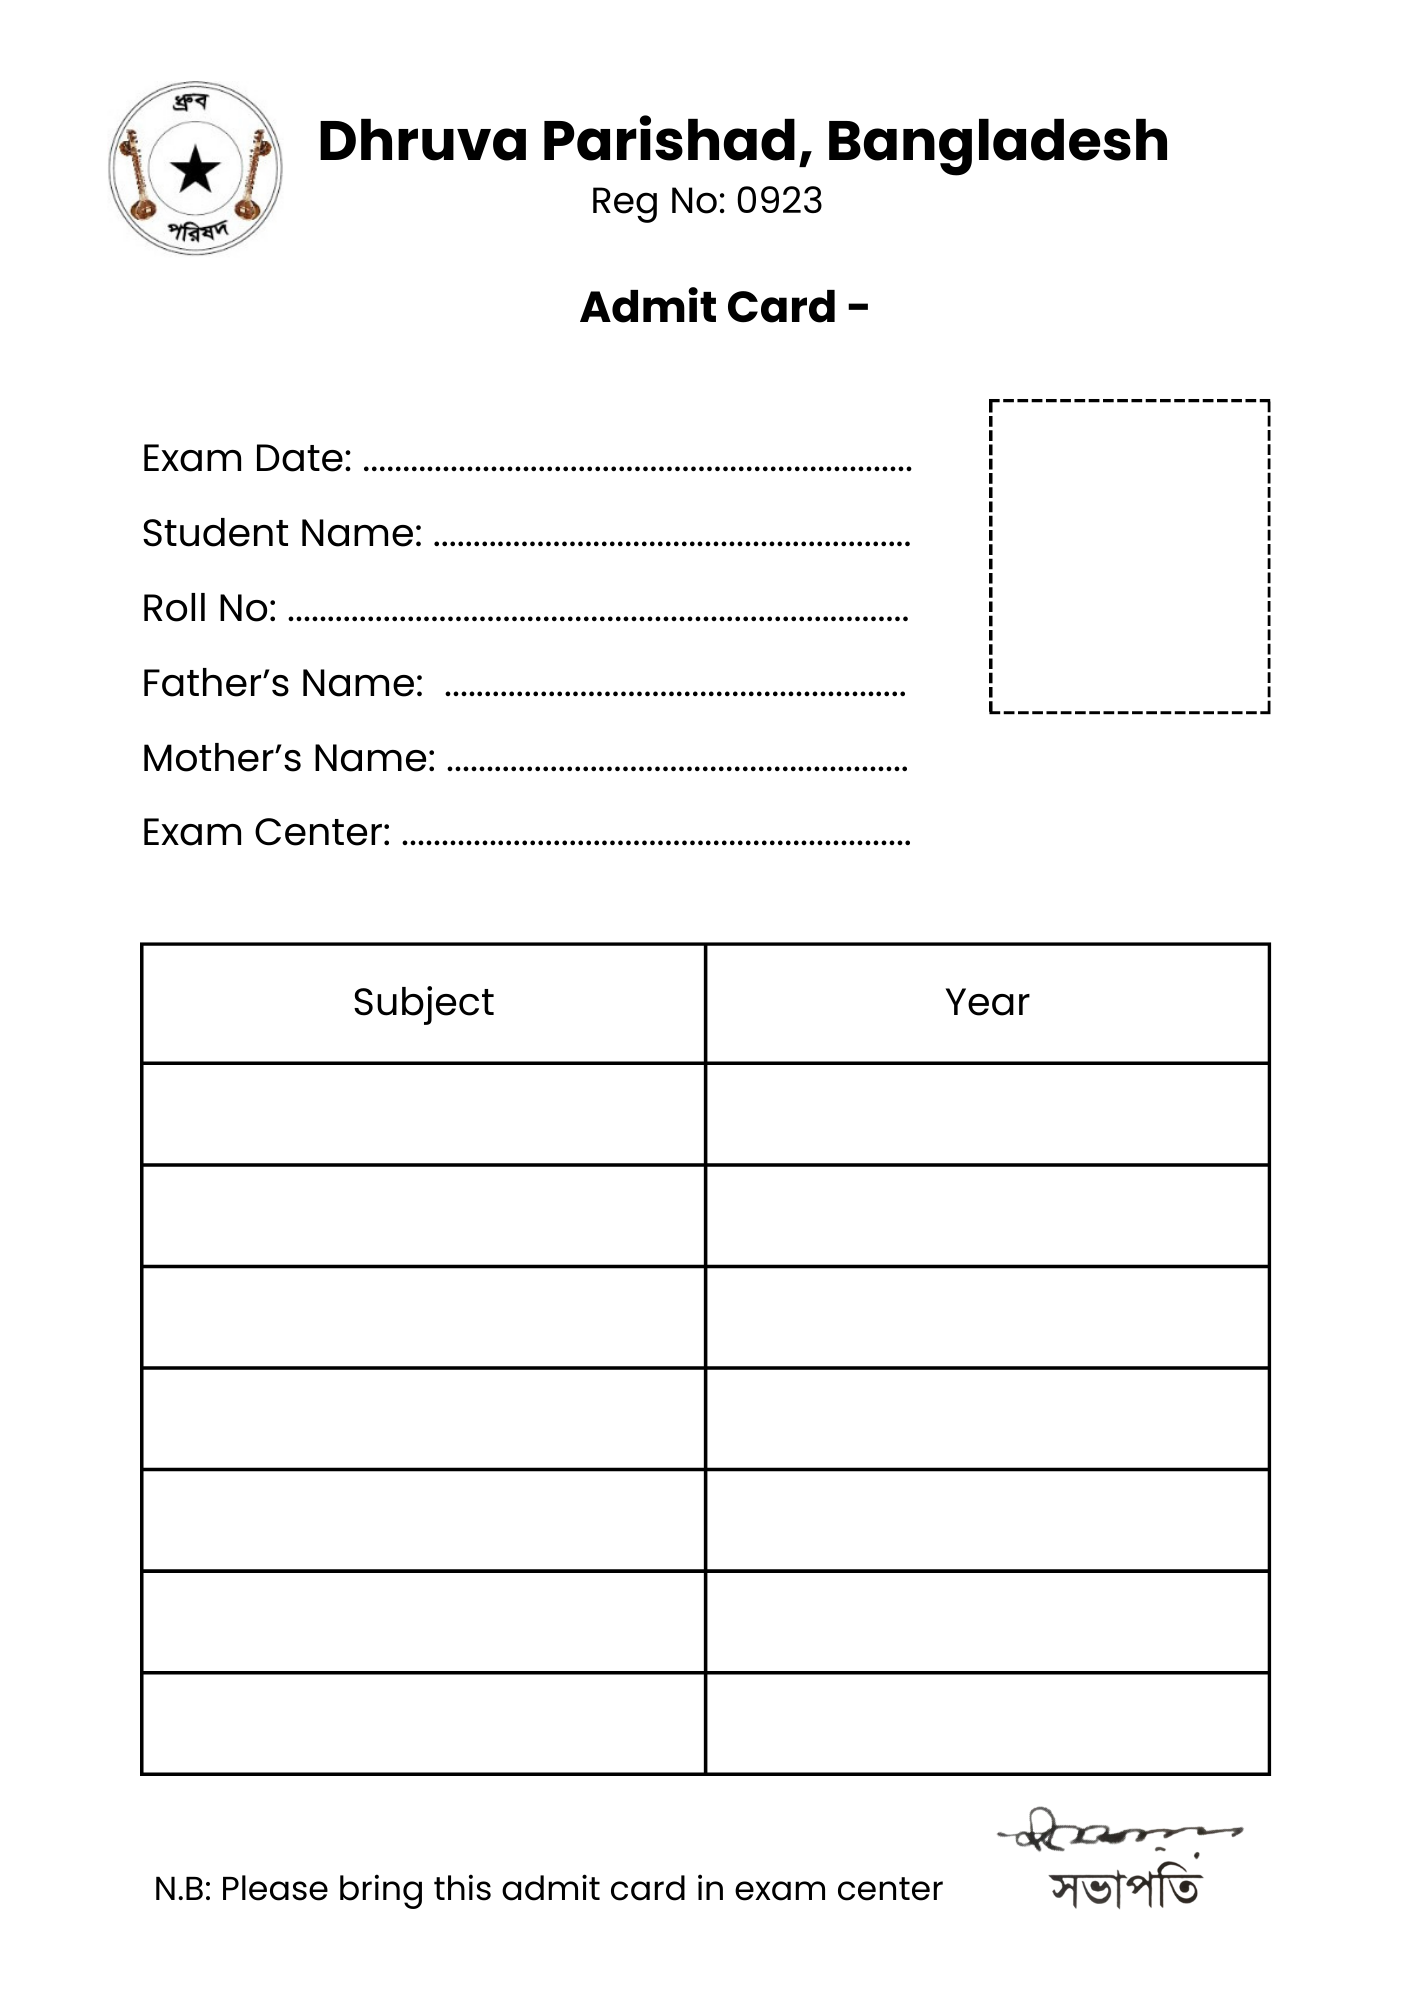
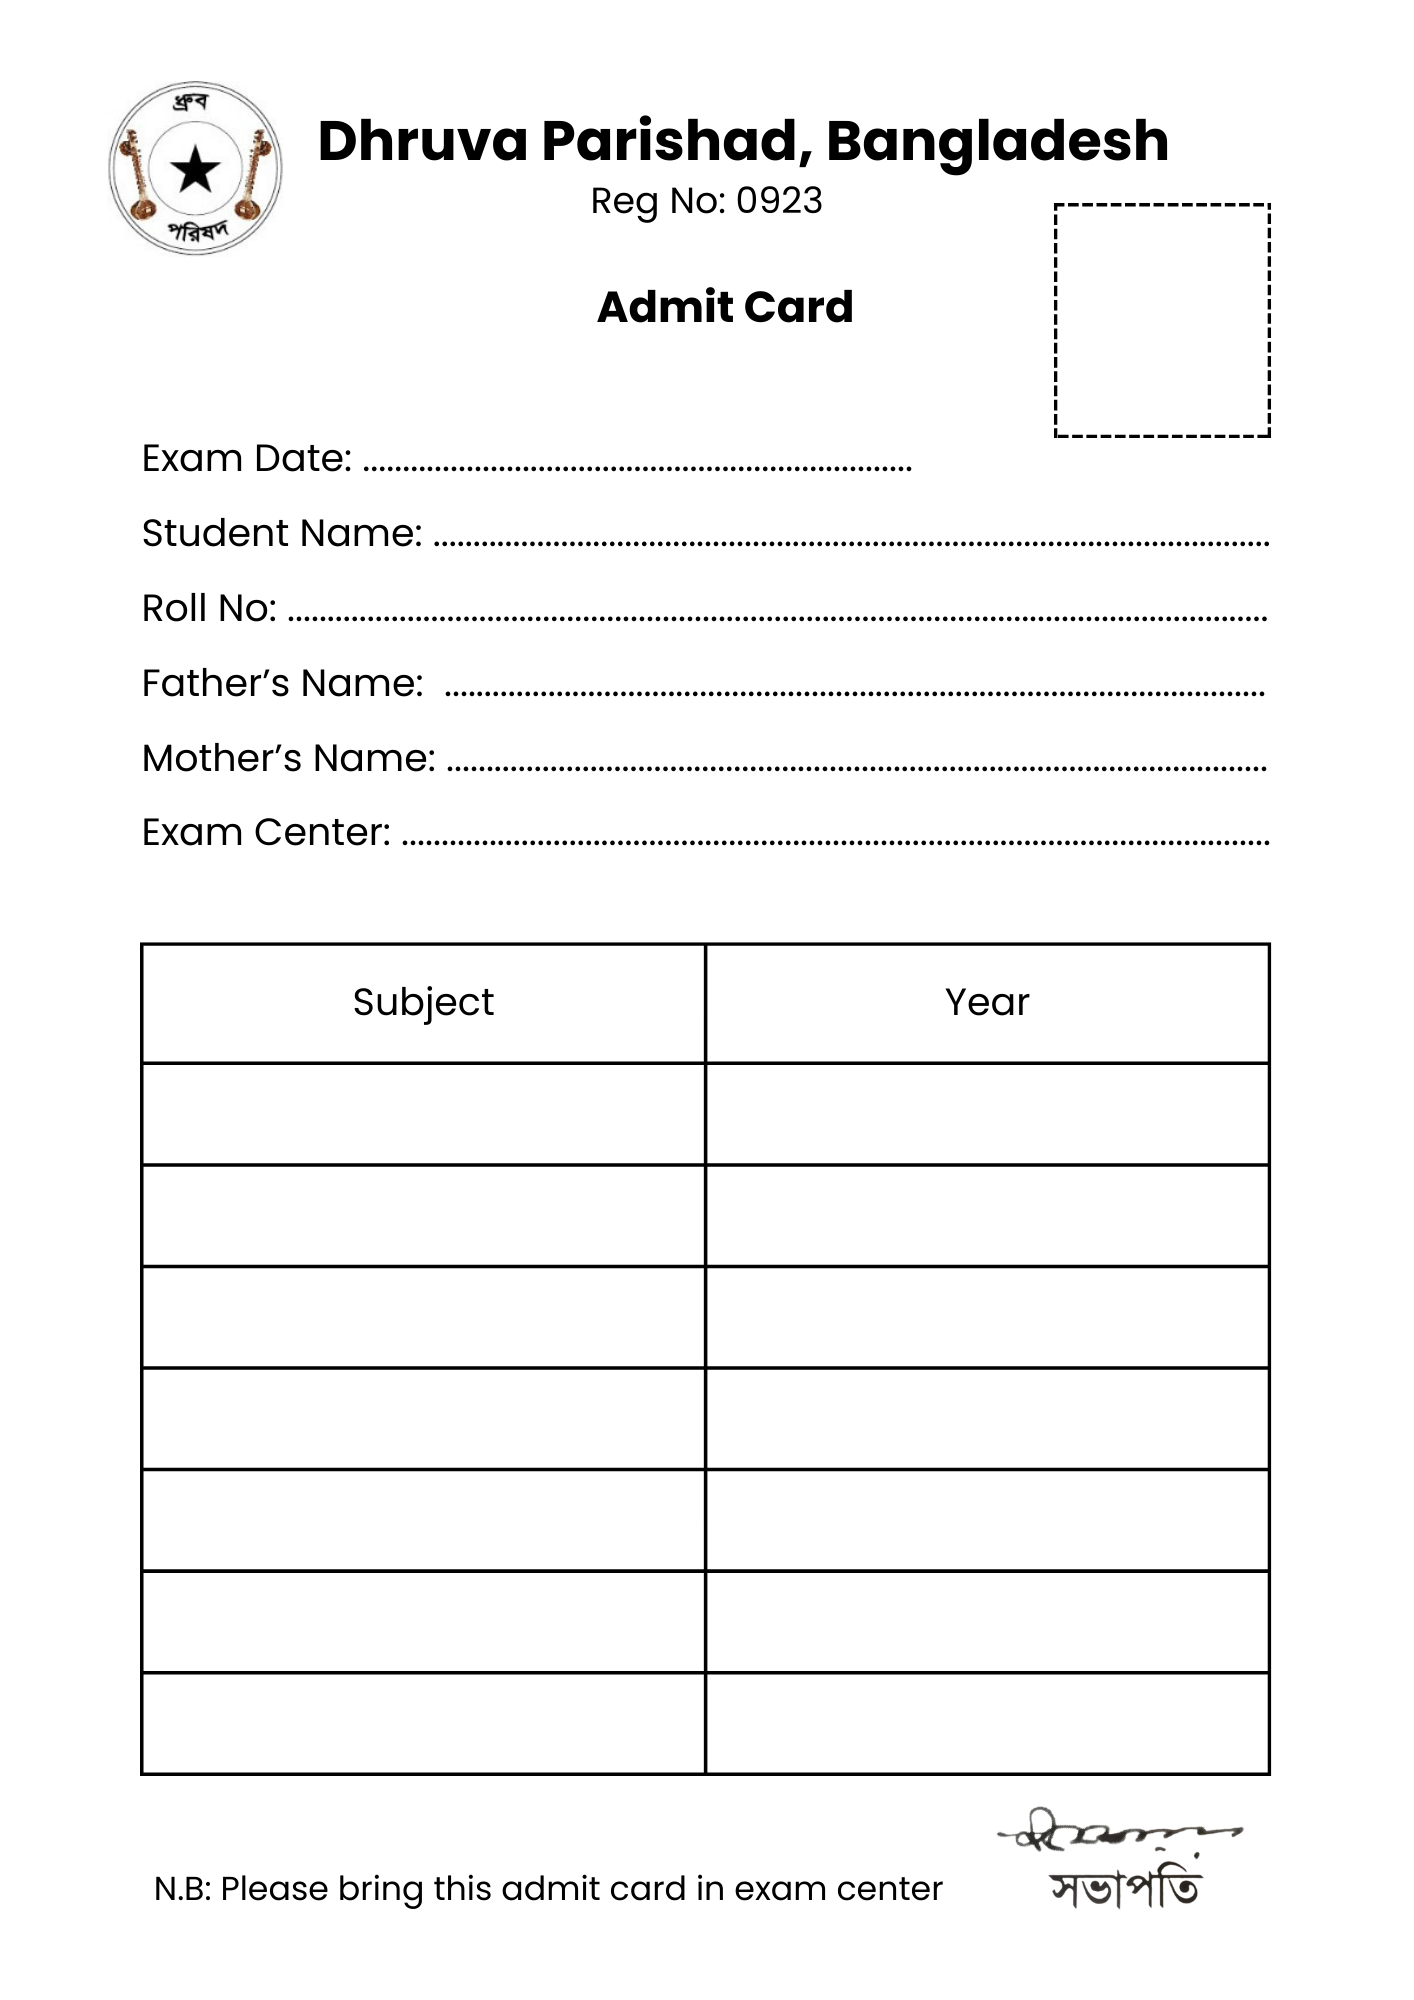
api changed

diff --git a/components/AdmitCard/AdmitCard.module.scss b/components/AdmitCard/AdmitCard.module.scss
@@ -2,13 +2,14 @@
 
 .certificate_section {
   margin-top: 40px;
-  width: 100%;
+  // width: 100%;
   // padding: 20px;
   background-color: $brown-color;
   display: flex;
   flex-direction: column;
   justify-content: center;
   align-items: center;
+  overflow-x: scroll;
 
   @media (min-width: 1024px) {
     margin-top: 60px;
@@ -29,7 +30,7 @@
 
     @media (min-width: 768px) {
       font-size: 20px;
-      margin-bottom: 40px;
+      margin-top: 50px;
     }
     @media (min-width: 1024px) {
       text-align: center;
@@ -40,9 +41,10 @@
   }
 
   .child_section {
-    // width: 100%;
+    @media (max-width: 768px) {
+      width: 100%;
+    }
     position: relative;
-
     .image_section {
       width: 600px;
       height: 800px;
@@ -56,57 +58,69 @@
       left: 0;
 
       .student_image {
-        // margin-top: 165px;
-        // margin-left: 425px;
-        // max-width: 110px;
-        // max-height: 115px;
-        top: 50;
-        // overflow: hidden;
-        background-color: red;
+        margin-top: 82px;
+        margin-left: 448px;
+        width: 90px;
+        height: 90px;
+        position: relative;
+        overflow: hidden;
+        // background-color: red;
 
-        .image_set{
-          width: 50px;
-          // object-fit: cover;
+        .image_set {
+          width: 100%;
+          object-fit: cover;
         }
       }
 
       .date_design {
         margin-left: 170px;
-        margin-top: 100px;
-        font-style: italic;
-        font-weight: 600;
+        margin-top: -8px;
+        font-weight: 500;
       }
       .name_design {
-        margin-left: 190px;
+        margin-left: 200px;
         margin-top: 5px;
-        font-style: italic;
-        font-weight: 600;
+        font-weight: 500;
       }
       .roll_design {
         margin-left: 150px;
         margin-top: 5px;
-        font-style: italic;
-        font-weight: 600;
+        font-weight: 500;
       }
       .father_name_design {
         margin-left: 200px;
         margin-top: 5px;
-        font-style: italic;
-        font-weight: 600;
+        font-weight: 500;
       }
       .mother_name_design {
         margin-left: 200px;
         margin-top: 5px;
-        font-style: italic;
-        font-weight: 600;
+        font-weight: 500;
       }
       .school_design {
-        margin-left: 200px;
+        margin-left: 180px;
         margin-top: 5px;
-        font-style: italic;
-        font-weight: 600;
+        font-weight: 500;
       }
-      
+
+      .sub_year_section {
+        margin-top: 90px;
+        margin-left: -50px;
+        .sub_year_field {
+          font-weight: 500;
+          display: flex;
+          justify-content: center;
+
+          .subject_design {
+            // margin-left: 5px;
+            margin-top: 15px;
+          }
+          .year_design {
+            margin-left: 150px;
+            margin-top: 15px;
+          }
+        }
+      }
     }
   }
 

diff --git a/components/ExamRegistrationForm/ExamRegistrationForm.js b/components/ExamRegistrationForm/ExamRegistrationForm.js
@@ -256,7 +256,7 @@ const ExamRegistrationForm = () => {
             {regFormField.map((field, index) => (
               <div key={index} className={styles.field_design}>
                 <label htmlFor={field.name}>{field.title}</label>
-                <input type={field.type} name={field.name} id="" />
+                <input type={field.type} name={field.name} id="" required />
               </div>
             ))}
           </div>
@@ -268,6 +268,7 @@ const ExamRegistrationForm = () => {
               <select
                 name="zone"
                 id=""
+                required
                 onChange={(e) => setZoneValue(e.target.value)}
               >
                 {zoneInfo.map((zone, index) => (
@@ -281,7 +282,7 @@ const ExamRegistrationForm = () => {
             {/* Field: school name */}
             <div className={styles.field_design}>
               <label htmlFor="school">Select Your Examination Center</label>
-              <select name="school" id="">
+              <select name="school" id="" required>
                 {schoolInfo
                   .filter((each) => {
                     if (zoneValue === each.zone) {
@@ -305,6 +306,7 @@ const ExamRegistrationForm = () => {
                     name="subject"
                     id=""
                     value={data.subject}
+                    required
                     onChange={(e) => handleChange(e, index)}
                   >
                     {subject_list.map((subject, i) => (
@@ -317,6 +319,7 @@ const ExamRegistrationForm = () => {
                     name="year"
                     id=""
                     value={data.year}
+                    required
                     onChange={(e) => handleChange(e, index)}
                   >
                     {year_list.map((year, idx) => (
@@ -367,6 +370,7 @@ const ExamRegistrationForm = () => {
                 id="image"
                 className={styles.image_file}
                 placeholder="Image"
+                required
                 onChange={handleImage}
               />
             </div>

diff --git a/components/ExamRegistrationForm/ExamRegistrationForm.module.scss b/components/ExamRegistrationForm/ExamRegistrationForm.module.scss
@@ -3,16 +3,17 @@
 .form_design {
   width: 100%;
   background-color: white;
-  padding: 10px;
+  // padding: 10px;
   border: 0;
   border-radius: 10px;
 
-  @media (min-width: 576px) {
-    padding: 50px;
-  }
-
   .heading_design {
     text-align: center;
+    // padding: 10px;
+
+    // @media (min-width: 576px) {
+    //   padding: 50px;
+    // }
     // institution name design
     .institute_name {
       font-size: $text-subhead;
@@ -57,7 +58,12 @@
   }
 
   form {
-    .registration_section {     
+    // padding: 10px;
+
+    // @media (min-width: 576px) {
+    //   padding: 50px;
+    // }
+    .registration_section {
       display: flex;
       flex-direction: column;
       justify-content: space-between;
@@ -122,7 +128,7 @@
         display: flex;
         margin-bottom: 5px;
 
-        select{
+        select {
           width: 100px;
           padding: 3px;
           margin-right: 3px;
@@ -140,12 +146,12 @@
 
       .addition_button {
         background-color: green;
-          border: 0;
-          border-radius: 5px;
-          padding: 5px;
-          color: white;
-         margin-top: 5px;
-          cursor: pointer;
+        border: 0;
+        border-radius: 5px;
+        padding: 5px;
+        color: white;
+        margin-top: 5px;
+        cursor: pointer;
       }
 
       .image_field_design {
@@ -182,8 +188,7 @@
       }
     }
     // Submit button
-    
-    
+
     .button_section {
       width: 100%;
       display: flex;

diff --git a/components/AdmitCard/AdmitCard.jsx b/components/AdmitCard/AdmitCard.jsx
@@ -31,14 +31,14 @@ const Admitcard = ({ studentDetail, exam_date }) => {
         <Image src={admitcard} alt="" className={styles.image_section} />
 
         <div className={styles.student_info}>
-          {/* <div style={{ width: "100px" }} className={styles.student_image}>
+          <div className={styles.student_image}>
             <Image
               src={studentDetail.imageShow}
               alt=""
-              fill
+              fill="true"
               className={styles.image_set}
             />
-          </div> */}
+          </div>
           <div className={styles.date_design}>{exam_date}</div>
           <div className={styles.name_design}>{studentDetail.student_name}</div>
           <div className={styles.roll_design}>{studentDetail.roll}</div>
@@ -49,6 +49,18 @@ const Admitcard = ({ studentDetail, exam_date }) => {
             {studentDetail.mother_name}
           </div>
           <div className={styles.school_design}>{studentDetail.school}</div>
+          <div className={styles.sub_year_section}>
+            {studentDetail.subjectYear.map((each, i) => (
+              <div className={styles.sub_year_field} key={i}>
+                <div className={styles.subject_design}>
+                  {each.subject}
+                </div>
+                <div className={styles.year_design}>
+                  {each.year}
+                </div>
+              </div>
+            ))}
+          </div>
         </div>
       </div>
 

diff --git a/api/api.js b/api/api.js
@@ -1,7 +1,8 @@
 import axios from "axios";
 
 const api = axios.create({
-  baseURL: "http://localhost:5000/api/v1/",
+  baseURL: "http://api.msh6545.knowme.sbs/api/v1/",
+  // baseURL: "http://localhost:5000/api/v1/",
 });
 
 export default api;
